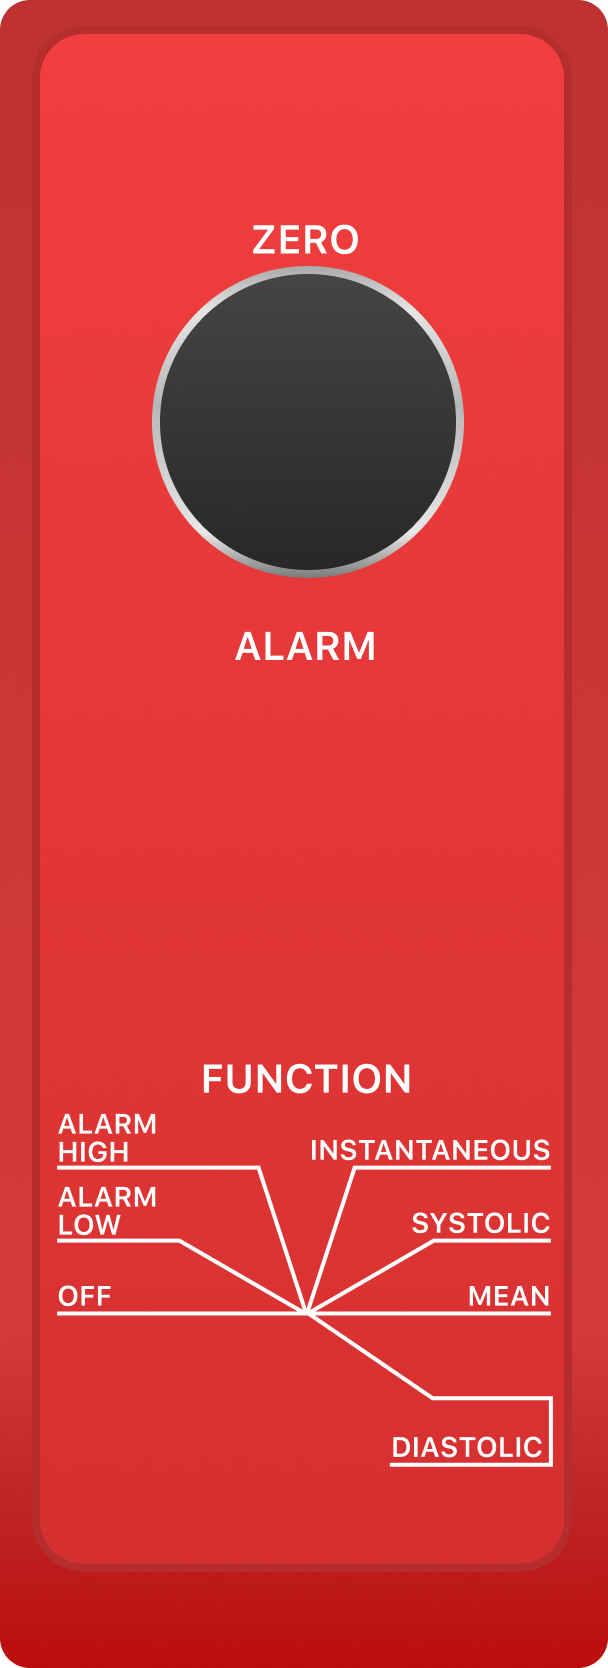
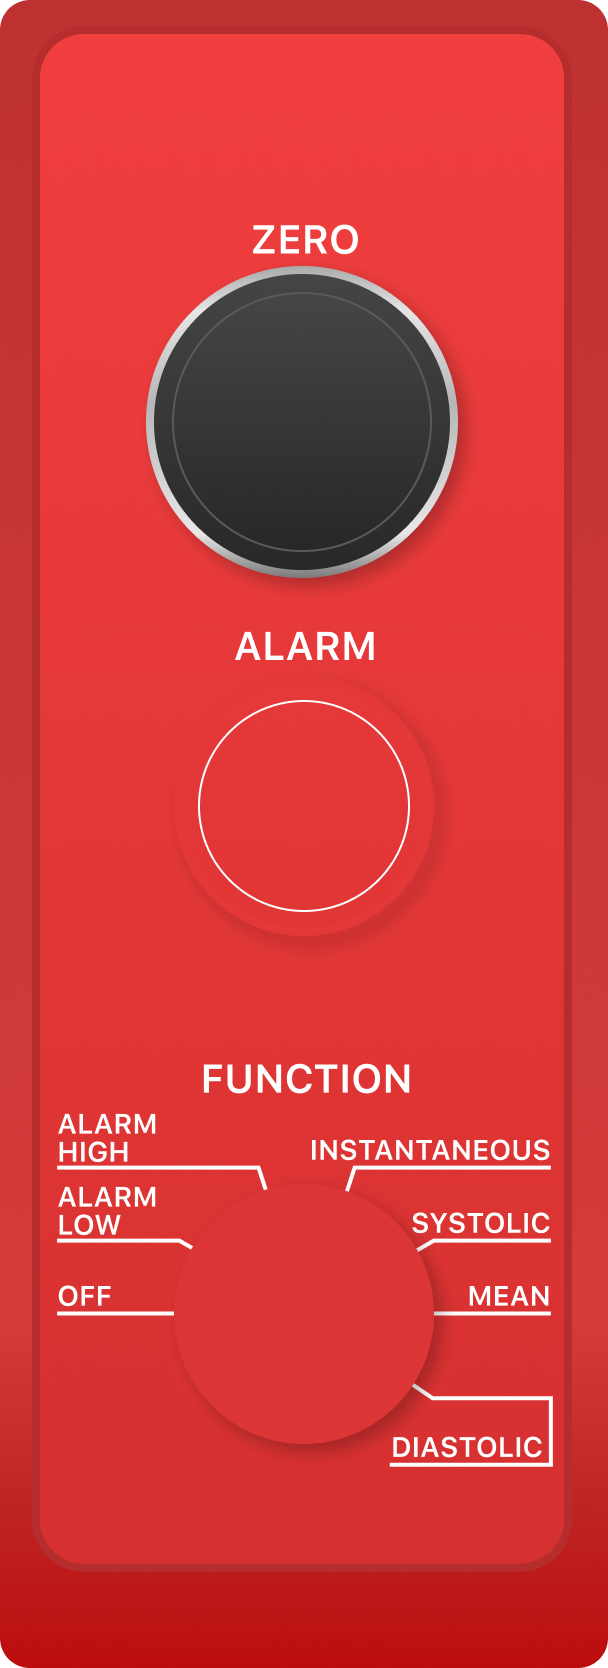
fix: pdb right pannel changed background for shadows

diff --git a/src/components/simulators/pdb/rightPannel.js b/src/components/simulators/pdb/rightPannel.js
@@ -12,60 +12,60 @@ const RightPannel = ({ dimension }) => {
 
     // Props
     const zeroProps = {
-        degRange : [0, 360],
-        step : 5,
-        size : size,
-        soundPath : require(`${ROOTPATH}/zero-knob.mp3`),
-        imagePath : require(`${ROOTPATH}/function-knob.png`),
-        type : 'zero',
-        knobFrameSize : knobFrameSize
+        degRange: [0, 360],
+        step: 5,
+        size: size,
+        soundPath: require(`${ROOTPATH}/zero-knob.mp3`),
+        imagePath: require(`${ROOTPATH}/function-knob.png`),
+        type: 'zero',
+        knobFrameSize: knobFrameSize
     }
     const alarmProps = {
-        degRange : [0, 360],
-        step : 15,
-        size : size,
-        soundPath : require(`${ROOTPATH}/alarm-knob.mp3`),
-        imagePath : require(`${ROOTPATH}/function-knob.png`),
-        type : 'alarm',
-        knobFrameSize : knobFrameSize
+        degRange: [0, 360],
+        step: 15,
+        size: size,
+        soundPath: require(`${ROOTPATH}/alarm-knob.mp3`),
+        imagePath: require(`${ROOTPATH}/function-knob.png`),
+        type: 'alarm',
+        knobFrameSize: knobFrameSize
     }
     const funcProps = {
-        degRange : [0, 216],
-        step : 36,
-        size : size,
-        soundPath : require(`${ROOTPATH}/func-knob.mp3`),
-        imagePath : require(`${ROOTPATH}/function-knob.png`),
-        type : 'function',
-        knobFrameSize : knobFrameSize
+        degRange: [0, 216],
+        step: 36,
+        size: size,
+        soundPath: require(`${ROOTPATH}/func-knob.mp3`),
+        imagePath: require(`${ROOTPATH}/function-knob.png`),
+        type: 'function',
+        knobFrameSize: knobFrameSize
     }
 
 
     const styles = create({
-        backgroundImage : {
-            resizeMode : 'stretch',
+        backgroundImage: {
+            resizeMode: 'stretch',
         },
-        background : {
-            marginLeft : dimension * 0.015,
-            alignItems : 'center',
-            shadowRadius : 5,
-            shadowOpacity : 0.3,
-            height : dimension * 0.55,
-            width : dimension * 0.2,
+        background: {
+            marginLeft: dimension * 0.015,
+            alignItems: 'center',
+            shadowRadius: 5,
+            shadowOpacity: 0.3,
+            height: dimension * 0.55,
+            width: dimension * 0.2,
         },
-        container : {
-            flexDirection : 'column',
-            top : dimension * 0.065,
-            marginLeft : 0.0023 * dimension
+        container: {
+            flexDirection: 'column',
+            top: dimension * 0.065,
+            marginRight: 0.001 * dimension
         },
-        zeroKnob : {
-            resizeMode : 'stretch',
+        zeroKnob: {
+            resizeMode: 'stretch',
         },
-        alarmKnob : {
-            bottom : dimension * 0.015
+        alarmKnob: {
+            bottom: dimension * 0.021
         },
-        funcKnob : {
-            bottom : dimension * 0.003,
-            transform : [{ rotateZ: '90deg' }]
+        funcKnob: {
+            bottom: dimension * 0.003,
+            transform: [{ rotateZ: '90deg' }]
         }
     })
 
